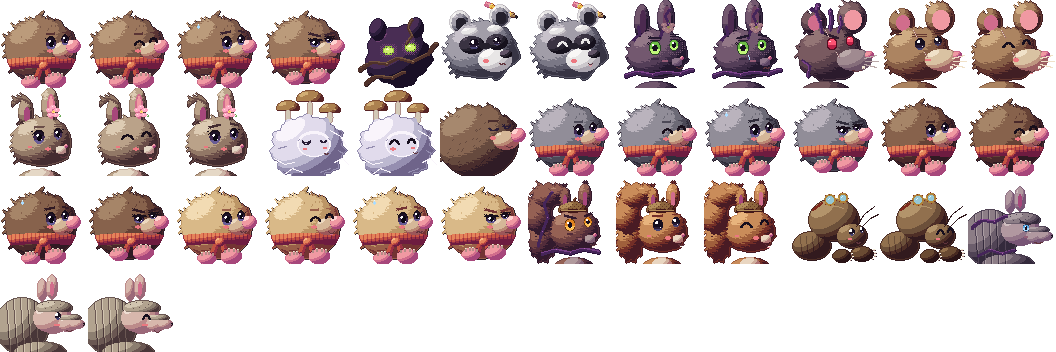
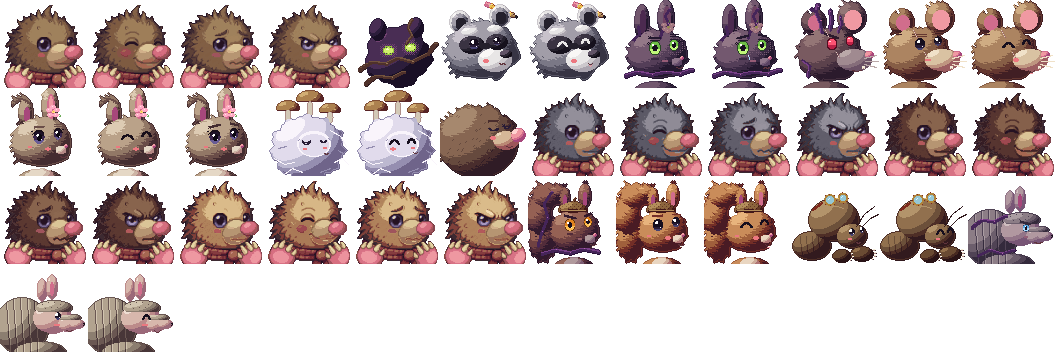
Naïl 대화 초상화를 나노바나나 그림으로: 원본 넷(tools/art/sources/ai)을 ai_portraits.py가 칸으로(로고 지우기·결의 눈 색·배경 투명·88×88·한 팔레트, 눈 색 따로), 털빛 셋도 털 색만 옮김(주둥이·발톱은 자리로 지킴). 공식 페이지 Naïl 그림도(0108)
Claude-Session: https://claude.ai/code/session_01VNXEyeHwdhsn4oiHYXtNpM

Changed region(s): [[0.5, 0.2812, 1.0, 0.5], [0.0, 0.5312, 0.5, 0.75], [0.0, 0.0312, 0.3438, 0.25]]

diff --git a/tools/art/ai_portraits.py b/tools/art/ai_portraits.py
@@ -1,0 +1,293 @@
+"""나노바나나로 그린 초상화 원본(tools/art/sources/ai/*.png)을 대화창 초상화 칸(88×88)으로 만든다(docs/decisions/0107·0108).
+
+portraits.py의 sheet()가 부른다. 원본이 있으면 그 칸을 이 그림으로 바꿔 끼우고, 없으면 직접 그린 그림 그대로 둔다.
+PNG를 손으로 고치지 않고, 원본에 할 일을 모두 여기에 둔다(같은 원본 = 같은 결과):
+  1. 오른쪽 아래 ✦(Gemini 앱 로고)를 둘레 색으로 메운다(네 꼭짓점 별 모양, 원본 512px에서 늘 같은 자리).
+  2. 고칠 것(눈 속 따뜻한 빛 → 연보라 등)을 원본별 표대로.
+  3. 배경(가장자리와 이어진 밝은 베이지)을 투명하게, 몸과 떨어진 반짝이·티끌은 지운다.
+  4. 88×88로 줄이고(덩어리 평균), 같은 캐릭터 표정 넷을 한 팔레트로 맞춘다(디더 없이).
+  5. Naïl 털빛 1~3: 털 색만 portraits.FUR_VARIANTS 경사로 옮긴다(목도리·주둥이·앞발·발톱·눈은 그대로).
+"""
+import colorsys
+import os
+
+from PIL import Image
+
+ROOT = os.path.dirname(os.path.abspath(__file__))
+SRC = os.path.join(ROOT, 'sources', 'ai')
+W = H = 88
+# 표정 순서 = 칸 순서(portraits.py 칸 0~3).
+FACES = ('normal', 'happy', 'worried', 'determined')
+# 한 캐릭터 표정들을 맞출 팔레트 색 수. 32·48색이면 눈의 보랏빛과 목도리 주황이 털 갈색에 묻혔다.
+# 눈(보랏빛)은 점이 적어 팔레트를 나눌 때 사라지므로 EYE_COLORS칸을 따로 떼어 둔다.
+PALETTE = 64
+EYE_COLORS = 8
+# Gemini 앱 로고(✦): 원본 512px 기준 가운데·반지름(네 꼭짓점 별).
+STAR = (451.5, 452.5, 12.5)
+
+
+def _hsv(c):
+    return colorsys.rgb_to_hsv(c[0] / 255, c[1] / 255, c[2] / 255)
+
+
+def _erase_star(img):
+    """✦ 자리를 둘레 색으로 메운다: 별 밖의 이웃 색 가운데 가장 흔한 것을 안쪽으로 번져 채운다."""
+    cx, cy, r = STAR
+    sx, sy = img.width / 512, img.height / 512
+    cx, cy, r = cx * sx, cy * sy, r * sx
+    px = img.load()
+    hole = set()
+    for y in range(int(cy - r) - 1, int(cy + r) + 2):
+        for x in range(int(cx - r) - 1, int(cx + r) + 2):
+            dx, dy = abs(x - cx) / r, abs(y - cy) / r
+            if dx ** (2 / 3) + dy ** (2 / 3) <= 1.15:
+                hole.add((x, y))
+    while hole:
+        filled = []
+        for (x, y) in hole:
+            near = [px[x + i, y + j] for i in (-1, 0, 1) for j in (-1, 0, 1)
+                    if (i or j) and (x + i, y + j) not in hole]
+            if len(near) >= 3:
+                filled.append(((x, y), max(set(near), key=near.count)))
+        if not filled:
+            break
+        for (p, c) in filled:
+            px[p] = c
+            hole.discard(p)
+
+
+def _eyes_to_lavender(img, boxes):
+    """눈 속 주황·노랑 빛을 보통 표정 눈의 연보라로(결의 표정만 눈동자가 호박색으로 나왔다).
+    털(채도 0.39~0.52·밝기 0.47~0.63)과 가르려고 채도가 높거나(주황) 아주 밝은(노랑) 점만, 흰 반사는 위쪽만 남긴다."""
+    lo, hi = (88, 70, 112), (176, 162, 212)
+    px = img.load()
+    for (x0, y0, x1, y1), white_from in boxes:
+        for y in range(y0, y1):
+            for x in range(x0, x1):
+                h, s, v = _hsv(px[x, y])
+                warm = h < 0.2 and s > 0.12 and (s > 0.55 or v > 0.7)
+                low_white = s <= 0.12 and v > 0.85 and y >= white_from
+                if warm or low_white:
+                    t = min(1.0, max(0.0, (v - 0.4) / 0.6))
+                    px[x, y] = tuple(int(lo[i] + (hi[i] - lo[i]) * t) for i in range(3))
+
+
+# 원본별로 더 고칠 것(원본 512px 좌표).
+FIXES = {
+    'nail_determined': lambda img: _eyes_to_lavender(
+        img, [((226, 250, 284, 288), 272), ((400, 244, 430, 266), 258)]),
+}
+
+
+def _character_mask(img, tol=34):
+    """가장자리와 이어진 배경(밝은 베이지)을 빼고, 남은 것 가운데 가장 큰 덩어리(캐릭터)만 참."""
+    w, h = img.size
+    px = img.load()
+    corners = [px[0, 0], px[w - 1, 0], px[0, h // 2], px[w - 1, h // 2]]
+    bg = tuple(sum(c[i] for c in corners) // len(corners) for i in range(3))
+    near_bg = lambda c: sum((c[i] - bg[i]) ** 2 for i in range(3)) <= tol * tol
+    is_bg = [[False] * w for _ in range(h)]
+    stack = [(x, 0) for x in range(w)] + [(x, h - 1) for x in range(w)]
+    stack += [(0, y) for y in range(h)] + [(w - 1, y) for y in range(h)]
+    while stack:
+        x, y = stack.pop()
+        if not (0 <= x < w and 0 <= y < h) or is_bg[y][x] or not near_bg(px[x, y]):
+            continue
+        is_bg[y][x] = True
+        stack += [(x + 1, y), (x - 1, y), (x, y + 1), (x, y - 1)]
+    # 남은 것의 덩어리: 가장 큰 것만(배경 위 반짝이·티끌을 지운다).
+    label = [[0] * w for _ in range(h)]
+    best, best_n, n = 0, 0, 0
+    for y0 in range(h):
+        for x0 in range(w):
+            if is_bg[y0][x0] or label[y0][x0]:
+                continue
+            n += 1
+            count, stack = 0, [(x0, y0)]
+            label[y0][x0] = n
+            while stack:
+                x, y = stack.pop()
+                count += 1
+                for (i, j) in ((1, 0), (-1, 0), (0, 1), (0, -1)):
+                    xx, yy = x + i, y + j
+                    if 0 <= xx < w and 0 <= yy < h and not is_bg[yy][xx] and not label[yy][xx]:
+                        label[yy][xx] = n
+                        stack.append((xx, yy))
+            if count > best_n:
+                best, best_n = n, count
+    return [[label[y][x] == best for x in range(w)] for y in range(h)]
+
+
+def _shrink(img, mask):
+    """88×88로 줄인다: 칸마다 캐릭터 점의 평균 색, 칸의 절반 넘게 캐릭터면 불투명."""
+    w, h = img.size
+    px = img.load()
+    out = Image.new('RGBA', (W, H), (0, 0, 0, 0))
+    o = out.load()
+    for oy in range(H):
+        y0, y1 = oy * h // H, (oy + 1) * h // H
+        for ox in range(W):
+            x0, x1 = ox * w // W, (ox + 1) * w // W
+            acc, cnt, tot = [0, 0, 0], 0, 0
+            for y in range(y0, y1):
+                for x in range(x0, x1):
+                    tot += 1
+                    if mask[y][x]:
+                        c = px[x, y]
+                        acc[0] += c[0]
+                        acc[1] += c[1]
+                        acc[2] += c[2]
+                        cnt += 1
+            if cnt * 2 > tot:
+                o[ox, oy] = (acc[0] // cnt, acc[1] // cnt, acc[2] // cnt, 255)
+    return out
+
+
+def _shared_palette(cells):
+    """표정들을 한 팔레트로(디더 없이). 투명은 그대로."""
+    strip = Image.new('RGB', (W * len(cells), H), (0, 0, 0))
+    for i, c in enumerate(cells):
+        flat = Image.new('RGB', (W, H), (0, 0, 0))
+        flat.paste(c, (0, 0), c)
+        strip.paste(flat, (i * W, 0))
+    # 투명 칸의 검정이 팔레트를 먹지 않게, 불투명 점만 모아 팔레트를 만든다.
+    opaque = [c.getpixel((x, y))[:3] for c in cells for y in range(H) for x in range(W)
+              if c.getpixel((x, y))[3]]
+
+    def is_eye(p):
+        h, s, v = _hsv(p)
+        return 0.6 <= h <= 0.85 and s > 0.12 and v > 0.2
+
+    def colors(points, n):
+        if not points:
+            return []
+        img = Image.new('RGB', (len(points), 1))
+        img.putdata(points)
+        q = img.quantize(colors=n, method=Image.Quantize.MEDIANCUT, dither=Image.Dither.NONE)
+        used = sorted({i for i in q.getdata()})
+        raw = q.getpalette()
+        return [tuple(raw[i * 3:i * 3 + 3]) for i in used]
+
+    eye = [p for p in opaque if is_eye(p)]
+    rest = [p for p in opaque if not is_eye(p)]
+    entries = colors(eye, EYE_COLORS) + colors(rest, PALETTE - EYE_COLORS)
+    pal = Image.new('P', (1, 1))
+    flat_pal = [v for c in entries for v in c]
+    pal.putpalette(flat_pal + flat_pal[-3:] * (256 - len(entries)))
+    out = []
+    for c in cells:
+        flat = Image.new('RGB', (W, H), (0, 0, 0))
+        flat.paste(c, (0, 0), c)
+        q = flat.quantize(palette=pal, dither=Image.Dither.NONE).convert('RGBA')
+        q.putalpha(c.getchannel('A'))
+        out.append(q)
+    return out
+
+
+def _is_fur(c):
+    """털 갈색인가. 목도리·매듭(붉은 주황), 주둥이(밝은 베이지와 그 붉은 그늘), 앞발·볼(분홍), 눈(보라), 선(자두빛)은 아니다.
+    88×88 팔레트를 위치와 함께 재 보니: 털은 밝은 단일수록 노란 쪽(색상 0.07~0.09, 밝기 ≤0.64), 어두운 단은 붉은 쪽(0.01~0.06).
+    주둥이 그늘(0.05·밝기 0.62)과 매듭(0.04·0.63)은 밝은데 붉은 쪽이라 털이 아니다."""
+    h, s, v = _hsv(c)
+    # 밝은 결(밝기 0.66~0.8)도 털이다(잿빛 결의 표정 이마에 주황 획이 남았다). 같은 밝기의 주둥이·발톱은 자리로 지킨다(_cream).
+    if not (0.25 <= s <= 0.5 and v <= 0.8):
+        return False
+    return 0.065 <= h <= 0.12 or (h < 0.065 and v < 0.55)
+
+
+def _cream(cell):
+    """털빛 변형에서 지킬 자리: 밝은 베이지(색상 0.08~0.14, 채도 0.2~0.42, 밝기 ≥0.7) 덩어리 가운데 주둥이(가장 큰 것)와 아래쪽 발톱.
+    가장 큰 덩어리(주둥이)는 줄마다 왼쪽~오른쪽 끝까지 채우고(가운데 단·주름이 털과 같은 색이라), 모두 한 칸 넓힌다.
+    색만으로 가르면 주둥이에 털색 얼룩이, 주둥이 아래 주름에 회색 줄이 생겼다."""
+    px = cell.load()
+    light = set()
+    for y in range(H):
+        for x in range(W):
+            p = px[x, y]
+            if p[3]:
+                h, s, v = _hsv(p)
+                if 0.08 <= h <= 0.14 and 0.2 <= s <= 0.42 and v >= 0.7:
+                    light.add((x, y))
+    comps, seen = [], set()
+    for start in light:
+        if start in seen:
+            continue
+        comp, stack = set(), [start]
+        seen.add(start)
+        while stack:
+            x, y = stack.pop()
+            comp.add((x, y))
+            for i in (-1, 0, 1):
+                for j in (-1, 0, 1):
+                    q = (x + i, y + j)
+                    if q in light and q not in seen:
+                        seen.add(q)
+                        stack.append(q)
+        comps.append(comp)
+    # 발톱은 아래쪽(앞발 줄) 덩어리만. 이마의 밝은 결도 같은 색이라 위쪽 작은 덩어리는 털로 둔다(결의 표정 이마에 주황 조각이 남았다).
+    area = set()
+    for comp in comps:
+        if sum(p[1] for p in comp) / len(comp) >= H * 0.68:
+            area |= comp
+    if comps:
+        muzzle = max(comps, key=len)
+        area |= muzzle
+        for y in {p[1] for p in muzzle}:
+            xs = [p[0] for p in muzzle if p[1] == y]
+            area.update((x, y) for x in range(min(xs), max(xs) + 1))
+    return {(x + i, y + j) for (x, y) in area for i in (-1, 0, 1) for j in (-1, 0, 1)}
+
+
+def fur_variant(cell, ramp):
+    """털 색만 경사 ramp(어두움 → 밝음 5단)로 옮긴다. 털 색의 밝기 순서는 그대로. 주둥이·발톱 자리는 건드리지 않는다."""
+    px = cell.load()
+    keep = _cream(cell)
+    furs = sorted({px[x, y][:3] for y in range(H) for x in range(W) if px[x, y][3] and _is_fur(px[x, y])},
+                  key=lambda c: 0.3 * c[0] + 0.59 * c[1] + 0.11 * c[2])
+    if not furs:
+        return cell.copy()
+    lum = lambda c: 0.3 * c[0] + 0.59 * c[1] + 0.11 * c[2]
+    lo, hi = lum(furs[0]), lum(furs[-1])
+    remap = {}
+    for c in furs:
+        t = (lum(c) - lo) / max(1.0, hi - lo) * (len(ramp) - 1)
+        i = min(len(ramp) - 2, int(t))
+        f = t - i
+        remap[c] = tuple(int(ramp[i][k] + (ramp[i + 1][k] - ramp[i][k]) * f) for k in range(3))
+    out = cell.copy()
+    o = out.load()
+    for y in range(H):
+        for x in range(W):
+            c = o[x, y]
+            if c[3] and c[:3] in remap and (x, y) not in keep:
+                o[x, y] = remap[c[:3]] + (c[3],)
+    return out
+
+
+def character(name):
+    """name_<표정>.png 넷을 칸 그림 넷으로. 하나라도 없으면 None(직접 그린 그림을 쓴다)."""
+    paths = [os.path.join(SRC, f'{name}_{f}.png') for f in FACES]
+    if not all(os.path.exists(p) for p in paths):
+        return None
+    cells = []
+    for f, p in zip(FACES, paths):
+        img = Image.open(p).convert('RGB')
+        _erase_star(img)
+        fix = FIXES.get(f'{name}_{f}')
+        if fix:
+            fix(img)
+        cells.append(_shrink(img, _character_mask(img)))
+    return _shared_palette(cells)
+
+
+def cells(fur_variants):
+    """{칸 번호: 88×88 RGBA}. Naïl: 칸 0~3, 털빛 k는 칸 18 + (k-1)*4부터."""
+    out = {}
+    nail = character('nail')
+    if nail:
+        for i, c in enumerate(nail):
+            out[i] = c
+        for k, ramp in fur_variants.items():
+            for i, c in enumerate(nail):
+                out[18 + (k - 1) * 4 + i] = fur_variant(c, ramp)
+    return out

diff --git a/tools/art/portraits.py b/tools/art/portraits.py
@@ -2,7 +2,7 @@
 
 실행: python3 tools/art/portraits.py [출력 경로]  (기본 assets/art/portraits.png)
 칸 88×88(한 줄 12칸, 칸 번호는 왼쪽 위부터), 게임 픽셀의 2배 밀도(대화창의 44×44 칸에 찍는다 → 화면 배율 4면 원본 1px = 화면 2px).
-  칸 0~3: Naïl 보통·기쁨·걱정·결의
+  칸 0~3: Naïl 보통·기쁨·걱정·결의 — 나노바나나 원본(tools/art/sources/ai/nail_*.png)을 ai_portraits.py가 칸으로(0108)
   칸 4  : 변해 버린 이웃(아직 정체를 모름: 그림자 + 빛나는 눈 + 뿌리)
   칸 5~6: 라쿤 포포(튜토리얼 안내) 보통·기쁨
   칸 7~8: 모모(굴토끼, 히로인) 물든 모습 — 차가움·괴로움(docs/decisions/0029)
@@ -11,7 +11,7 @@
   칸 12~14: 돌아온 모모 보통·기쁨·걱정 — 따뜻한 회갈색, 검은 눈, 핀 꽃, 뿌리 없음(docs/decisions/0049)
   칸 15~16: 누룩 할매 보통·기쁨 — 흰 실 덩어리 몸, 머리에 버섯 갓 셋, 감은 눈
   칸 17  : 엄마 두더지 — Naïl보다 크고 털이 짙다, 다정하게 감은 눈
-  칸 18~29: Naïl 털빛 1~3(잿빛·밤빛·모래빛) × 표정 4(저널 보상, docs/decisions/0048) — 털 경사만 바꾼다
+  칸 18~29: Naïl 털빛 1~3(잿빛·밤빛·모래빛) × 표정 4(저널 보상, docs/decisions/0048) — 털 경사만 바꾼다(나노바나나 칸도 같은 경사로)
   칸 30  : 도토(물든 청설모, 둘째 길 보스) — 도토리 갓 모자, 호박색 빛 눈, 꼬리를 감은 뿌리(docs/decisions/0052)
   칸 31~32: 돌아온 도토 보통·기쁨 — 붉은 밤색 털, 검은 눈, 모자는 그대로
   칸 33~34: 땅강아지 수수 보통·기쁨 — 벨벳 투구 같은 가슴, 이마에 올린 보안경, 큰 삽발(docs/decisions/0053)
@@ -1632,6 +1632,12 @@ def sheet():
     out = Image.new('RGBA', (W * cols, H * rows), (0, 0, 0, 0))
     for i, cv in enumerate(frames):
         out.paste(to_image(cv), ((i % cols) * W, (i // cols) * H))
+    # 나노바나나 원본이 있는 캐릭터는 그 칸을 바꿔 끼운다(ai_portraits.py, docs/decisions/0108).
+    import ai_portraits
+    for i, img in ai_portraits.cells(FUR_VARIANTS).items():
+        box = ((i % cols) * W, (i // cols) * H)
+        out.paste(Image.new('RGBA', (W, H), (0, 0, 0, 0)), box)
+        out.paste(img, box)
     return out
 
 

diff --git a/docs/decisions/0108-nail-portraits-nano-banana.md b/docs/decisions/0108-nail-portraits-nano-banana.md
@@ -1,0 +1,21 @@
+# 0108. Naïl 대화 초상화를 나노바나나 그림으로
+
+- 날짜: 2026-10-26
+- 상태: 채택. 0107(나노바나나 시험)의 첫 결과. 사장: "naïl 초상화는 다 끝났지? 소스코드에 적용해 줘."
+
+## 결정
+- **원본**: 사장이 나노바나나로 그린 512×512 넷(`tools/art/sources/ai/nail_{normal,happy,worried,determined}.png`). 캐릭터 시트 → 보통 표정 → 같은 그림에서 표정만 바꾸기(`docs/art/nano-banana-prompts.md` 0-2). PNG는 손으로 고치지 않고 원본 그대로 둔다.
+- **칸으로 만드는 것**: `tools/art/ai_portraits.py`(`portraits.py`의 `sheet()`가 부른다). 원본이 있는 캐릭터만 칸을 바꿔 끼우고, 없으면 직접 그린 그림 그대로.
+  1. 오른쪽 아래 ✦(Gemini 앱 로고)를 둘레 색으로 메운다. 네 장 모두 같은 자리의 네 꼭짓점 별이다.
+  2. 결의 표정은 눈 속 빛이 주황·노랑(호박색 눈처럼 보임)으로 나와, 눈 칸 안의 따뜻한 점만 보통 표정 눈의 연보라로 바꾼다. 털(채도 0.39~0.52·밝기 0.47~0.63)과는 채도·밝기로 가른다. 흰 반사는 위쪽만 남긴다.
+  3. 가장자리와 이어진 베이지 배경을 투명하게 하고, 가장 큰 덩어리(캐릭터)만 남긴다(기쁨 표정 둘레의 반짝이가 지워진다).
+  4. 88×88로 줄인다(칸마다 캐릭터 점의 평균, 절반 넘게 캐릭터면 불투명).
+  5. 표정 넷을 한 팔레트(64색, 그 가운데 눈 보랏빛 8색은 따로 뗌)로 맞춘다. 32·48색에서는 눈 보랏빛과 목도리 주황이 털 갈색에 묻혔다.
+  6. **털빛 1~3**(잿빛·밤빛·모래빛, 칸 18~29): 털 색만 `FUR_VARIANTS` 경사로 옮긴다. 털 = 채도 0.25~0.5·밝기 ≤0.8에서, 밝은 단은 노란 쪽(색상 0.065~0.12), 어두운 단은 붉은 쪽(<0.065)이면서 밝기 <0.55. 주둥이 그늘·매듭은 밝은데 붉은 쪽이라 털이 아니다. 같은 색인 **주둥이**(가장 큰 밝은 베이지 덩어리를 줄마다 채운 곳)와 **발톱**(아래쪽 밝은 베이지 덩어리)은 자리로 지킨다(한 칸 넓혀서). 색만으로 가를 때 주둥이에 털색 얼룩, 주둥이 아래 주름에 회색 줄, 목도리 어두운 단이 회색이 됐다.
+- 공식 페이지의 Naïl 그림(`site/img/p_nail.png`)도 `make_images.py`로 다시 만들었다.
+- **앱 아이콘은 그대로 둔다**: `tools/icons/make_icons.py`가 초상화 칸 0에서 아이콘을 만든다. 다시 돌리면 아이콘이 새 그림으로 바뀐다. 바꿀지는 사장이 정한다.
+
+## 확인
+- `portraits.py`를 돌린 시트와 전 시트를 칸마다 비교해 칸 0~3·18~29만 바뀐 것을 확인했다.
+- 표정 넷은 보통 표정과 비교해 3.4~5.6%만 다르다(얼굴만). 털빛 셋 × 표정 넷을 크게 보고 목도리·주둥이·앞발·발톱·눈이 그대로인 것을 확인했다.
+- 헤드리스: 모모 첫 만남 컷씬 대화창에 새 Naïl 결의 표정이 나온다. 다른 캐릭터는 아직 직접 그린 그림이라 그림체가 다르다(다음 차례).

diff --git a/CLAUDE.md b/CLAUDE.md
@@ -55,7 +55,7 @@ CI: `deploy-web.yml`이 위 세 줄을 돌리고 Netlify 시크릿이 있으면 
 ## 하지 않는 것
 - `mq_js_bundle.js`나 게임패드 JS 플러그인을 외부 URL로 핫링크하지 않는다. `web/`에 복사본.
 - 에셋 팩을 라이선스 확인 없이 커밋하지 않는다. `assets/LICENSES.md`에 기록. **이 레포는 공개다. 유료·제3자 팩 원본은 `assets/vendor/`(gitignore)에만 두고 커밋하지 않는다**(docs/decisions/0010). 팩 그림은 Claude가 보고 고르고 확인해도 되지만 AI 학습·생성 참조에는 쓰지 않는다(0064).
-- 직접 그린 그림은 PNG를 손으로 고치지 않는다. 점으로 다듬을 때는 `tools/pixel`(`.pxl` 텍스트 원본, `pxl.py check`의 계단·외톨이 검사, 브라우저 편집기 `editor.html`, 0070). 그 밖에는 `tools/art/*.py`를 고치고 다시 생성한다(Naïl `nail.py`, 적·이웃 `critters.py`, 보스 `chief.py`, 초상화 `portraits.py`, 타일 `tiles.py`, 컷씬 일러스트·타이틀 바탕 `illust.py`(타이틀은 `title` 장면, 앨범 목록 밖, 0083) — 임시 그림. 일러스트 바탕은 파스텔·수채 그림(`tools/art/sources/`, CC0·퍼블릭 도메인, 출처는 `assets/LICENSES.md`)을 `pastel_bg`로 도트화하고 그 위에 그린다(0073). 사람이 그린 그림으로 바꿀 때는 `docs/art/cutscene-illustrations.md`).
+- 직접 그린 그림은 PNG를 손으로 고치지 않는다. 점으로 다듬을 때는 `tools/pixel`(`.pxl` 텍스트 원본, `pxl.py check`의 계단·외톨이 검사, 브라우저 편집기 `editor.html`, 0070). 그 밖에는 `tools/art/*.py`를 고치고 다시 생성한다(Naïl `nail.py`, 적·이웃 `critters.py`, 보스 `chief.py`, 초상화 `portraits.py`(나노바나나 원본이 있는 캐릭터는 `tools/art/sources/ai/` + `ai_portraits.py`가 칸을 바꿔 끼운다, 0108), 타일 `tiles.py`, 컷씬 일러스트·타이틀 바탕 `illust.py`(타이틀은 `title` 장면, 앨범 목록 밖, 0083) — 임시 그림. 일러스트 바탕은 파스텔·수채 그림(`tools/art/sources/`, CC0·퍼블릭 도메인, 출처는 `assets/LICENSES.md`)을 `pastel_bg`로 도트화하고 그 위에 그린다(0073). 사람이 그린 그림으로 바꿀 때는 `docs/art/cutscene-illustrations.md`).
 - 마일스톤(docs/decisions/0079) 밖의 큰 기능을 사장 지시 없이 먼저 만들지 않는다. 마이너 버전은 마일스톤을 마쳤을 때만 올린다(패치는 자유).
 - `cargo-quad-apk` 커밋(`build-android.yml`의 `CARGO_QUAD_APK_REV`)과 `web/*.js` 복사본은 의도적으로만 올린다. 올리면 CI 콘솔/로그를 확인한다.
 - 언어: 문서·커밋 메시지 한국어, 코드 식별자 영어.

diff --git a/assets/LICENSES.md b/assets/LICENSES.md
@@ -8,7 +8,7 @@
 | `fonts/OFL-ArkPixel.txt` | Ark Pixel 레포 `LICENSE-OFL` | — | Ark Pixel의 OFL 원문. 일본어·간체 폰트와 함께 배포 |
 | `art/nail.png` | 직접 그림. 원본 `tools/art/nail.py` | © 2026 Beardworks | Naïl 스프라이트 v2(idle·walk·attack·hurt·dead·흙더미·그림자 + 흰 실루엣) |
 | `art/nail_fur1~3.png` | 직접 그림. 원본 `tools/art/nail.py`(털 색만 바꿈) | © 2026 Beardworks | 털빛 잿빛·밤빛·모래빛(저널 보상, docs/decisions/0048) |
-| `art/portraits.png` | 직접 그림. 원본 `tools/art/portraits.py` | © 2026 Beardworks | 대화창 초상화 88×88, 한 줄 12칸(Naïl 털빛 3 × 표정 4 포함, Naïl 표정 4 + 이웃 그림자 + 라쿤 포포 2 + 물든 모모 2 + 들쥐 대장·보리 3 + 돌아온 모모 3 + 누룩 할매 2 + 엄마 두더지 1 + 도토 3 + 수수 2 + 콩이 3) |
+| `art/portraits.png` | 직접 그림. 원본 `tools/art/portraits.py`. **Naïl 칸 0~3·18~29**는 나노바나나(Google Gemini 이미지 모델)로 사장이 그린 원본 `tools/art/sources/ai/nail_*.png`를 `tools/art/ai_portraits.py`가 칸으로 만든 것(2026-10-26, docs/decisions/0108). 참고 그림은 직접 그린 초상화만 넣었다(팩 그림 없음, 0064). 모든 생성 그림에 SynthID 워터마크가 들어 있다 | © 2026 Beardworks | 대화창 초상화 88×88, 한 줄 12칸(Naïl 털빛 3 × 표정 4 포함, Naïl 표정 4 + 이웃 그림자 + 라쿤 포포 2 + 물든 모모 2 + 들쥐 대장·보리 3 + 돌아온 모모 3 + 누룩 할매 2 + 엄마 두더지 1 + 도토 3 + 수수 2 + 콩이 3) |
 | `art/critters.png` | 직접 그림. 원본 `tools/art/critters.py` | © 2026 Beardworks | 적(물든 들쥐·생쥐·시궁쥐·다람쥐·청설모)·허수아비·라쿤 포포·물든 모모·돌아온 모모·도토·돌아온 도토·수수·콩이·돌아온 콩이 16×16 + 흰 실루엣. v2 손으로 찍은 자세 |
 | `art/chief.png` | 직접 그림. 원본 `tools/art/chief.py` | © 2026 Beardworks | 튜토리얼 보스 들쥐 대장(물든 모습 8칸)·돌아온 보리(5칸) 32×32 + 흰 실루엣 |
 | `art/illust/*.png`(타이틀 바탕 `title.png`·`title_fog.png` 포함, 0083 — 타이틀은 바탕 그림 없이 코드로만) | 직접 그림(임시). 원본 `tools/art/illust.py` | © 2026 Beardworks(molehill·great_tree·last_bloom·mother_burrow·bori_freed·momo_bloom 바탕은 아래 그림들, CC0·퍼블릭 도메인) | 컷씬 일러스트 9장 640×360(2배 밀도, 일부는 패닝용으로 더 큼). 사람이 그린 그림으로 바꾸면 이 행을 작가·계약으로 고친다(docs/art/cutscene-illustrations.md) |

diff --git a/docs/phase-1-combat-prototype.md b/docs/phase-1-combat-prototype.md
@@ -124,6 +124,7 @@
 | 잠긴 문(0094·0096~0099) | `render.rs`(draw_root_gate·빛 패스), `sunny.rs`(FENCE_H·FENCE_V), `room.rs`(door_anim·tick_doors), `world.rs`(열릴 때 실 풀림) | 팩 나무 울타리 두 겹(가운데 칸만: 남북 39,2 · 동서 40,3, 가로대가 벽에서 벽까지, 팩이 없으면 물든 뿌리) + 가로대를 감는 보라 실, 0.35초에 솟아 닫히고 0.5초에 가라앉으며 실이 풀린다, 어둠 속에서도 실이 빛남 |
 | 어둠 지도·야광버섯·그림자(0095·0100) | `render.rs`(dark_rt·cut_material·light_sources·draw_cast_shadows·draw_mushrooms), `art.rs`(light), `biome.rs` | 빛 자리마다 어둠을 빼는 렌더 타깃, 버섯 빛 64px·세기 0.28(은은하게 넓게), 심층 버섯 14%·뿌리 지대 4%, 빛 반대쪽으로 눕는 그림자 |
 | 해·모닥불 그림자(0102~0106, 시험) | `render.rs`(draw_sun_shadows·shadow_dir·sun_shear·silhouette_material, draw_sorted의 sun), `sunny.rs`(stamp_sun_shadow), `terrain.rs`(Baker::fires), `tuning.rs`(SUN_SHADOW_*·FIRE_SHADOW_*·DECOR_LIFT_*) | 서 있는 것의 모양을 발 줄 축으로 눕혀 렌더 타깃에 모아 한 번에 얹는다. 밝은 곳은 해(오른쪽 아래), 모닥불 곁은 불 바깥쪽(150px, 멀수록 길게, 불이 아래면 더 길게 0104, 어두운 곳은 바깥으로 옅게). 모닥불 돌은 돌만 키운 모양(뒤쪽은 짧게, 0105). 그림자 패스는 몸만(빛·표시·반투명·바닥 것 제외, 밝은 곳은 타원 그림자 끔, 0106). 구운 꽃·조약돌·풀포기는 높이 비율만큼 짧게 |
+| Naïl 초상화 나노바나나(0107·0108) | `tools/art/sources/ai/nail_*.png`, `tools/art/ai_portraits.py`, `tools/art/portraits.py`(sheet), `docs/art/nano-banana-prompts.md` | 표정 넷 원본 → 로고 지우기·결의 눈 색·배경 투명·88×88·한 팔레트(눈 8색 따로)·털빛 셋(주둥이·발톱은 자리로 지킴). 다른 캐릭터는 다음 차례 |
 | 웨이브 | `world.rs`, `scenario.rs` | 지금은 개발 시나리오(아레나·웨이브 3부터)에서만. 적을 다 잡으면 1.2초 뒤 다음 웨이브(1C+1S → 2C+1S → 2C+2S → 3C+2S). 명세엔 없지만 5분 플레이 판정을 위해 넣음 |
 
 확인한 것: 데스크톱(Xvfb) 실행 캡처로 렌더 방향·공격 반원·굴파기·히트박스 표시, 헤드리스 Chromium으로 웹 빌드 로드·입력·콘솔(mismatch 없음). 확인 못 한 것: 실제 손맛(판정 1~4), 실기 게임패드, 소리의 실제 느낌(컨테이너에 오디오 장치 없음).

diff --git a/docs/decisions/0107-ai-illustrations-nano-banana.md b/docs/decisions/0107-ai-illustrations-nano-banana.md
@@ -1,7 +1,7 @@
 # 0107. 컷씬 일러스트를 나노바나나로 시험해 그린다(직접 그린 그림만 참고로)
 
 - 날짜: 2026-10-26
-- 상태: 시험(그림을 받아 넣기 전). 사장: "각 일러스트를 나노바나나에 넣으려고 하니, 프롬프트 만들어 줘."
+- 상태: 시험. 첫 결과로 Naïl 대화 초상화를 넣었다(0108). 사장: "각 일러스트를 나노바나나에 넣으려고 하니, 프롬프트 만들어 줘."
 - 지금까지 AI로 만든 그림은 사장이 정할 때까지 넣지 않았다. 사장이 컷씬 일러스트에 나노바나나(Google Gemini 이미지 모델)를 쓰기로 했다.
 
 ## 정한 것
